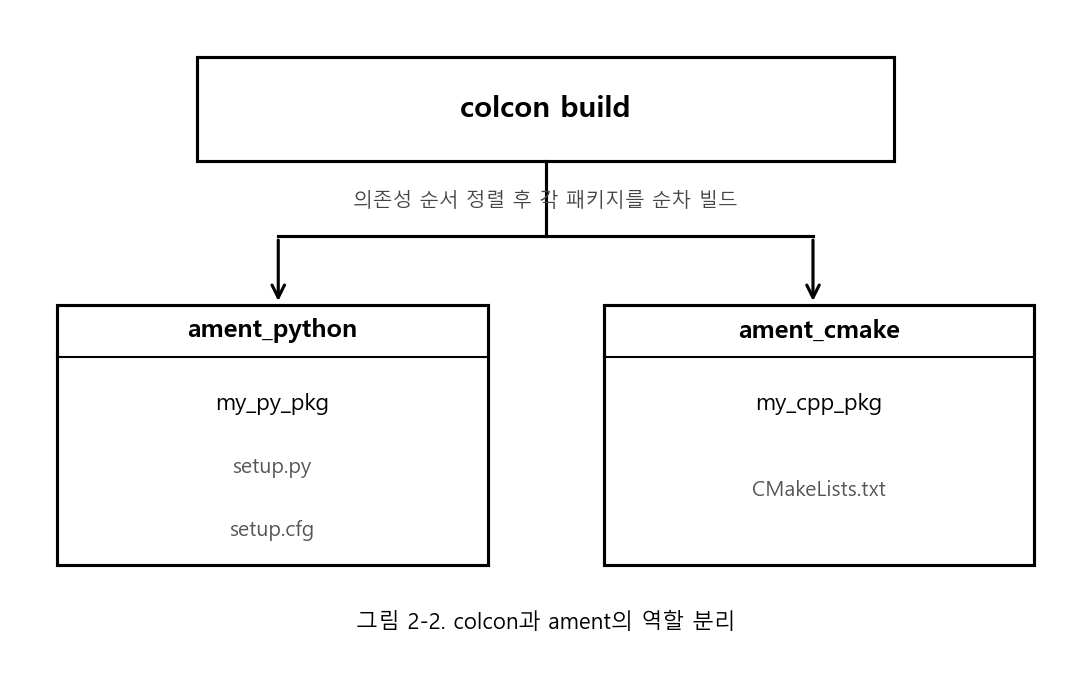
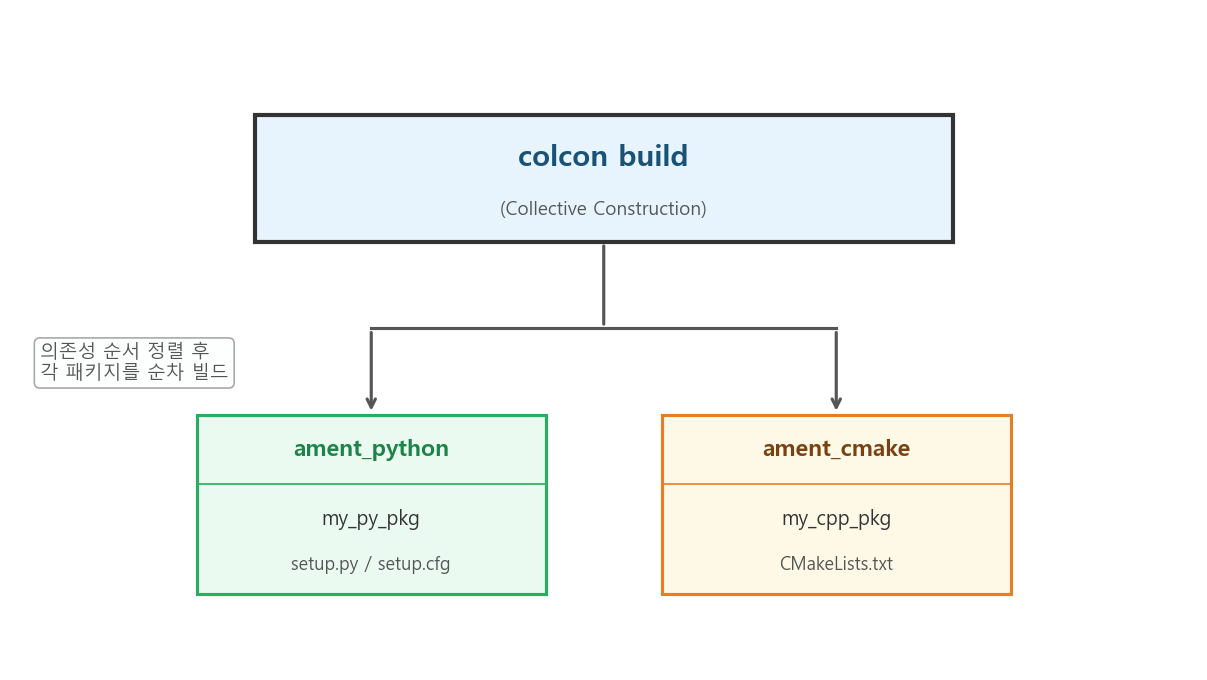
2장 수정: 폴더 트리 PNG화(fig2-4), fig2-2 레이블 좌측 이동, DOCX 갱신

diff --git a/scripts/gen_fig2_fix.py b/scripts/gen_fig2_fix.py
@@ -1,0 +1,144 @@
+"""Generate fig2-2 (fixed) and fig2-4 (new workspace tree diagram)."""
+import matplotlib
+matplotlib.use('Agg')
+import matplotlib.pyplot as plt
+import matplotlib.patches as patches
+
+plt.rcParams['font.family'] = 'Malgun Gothic'
+plt.rcParams['axes.unicode_minus'] = False
+
+FIGURES = 'docs/01_intro/figures'
+
+# ──────────────────────────────────────────
+# fig2-2  (fixed): colcon label moved LEFT
+# ──────────────────────────────────────────
+fig, ax = plt.subplots(figsize=(10, 5.5))
+ax.set_xlim(0, 10)
+ax.set_ylim(0, 5.5)
+ax.axis('off')
+
+# colcon build box
+colcon_x, colcon_y, colcon_w, colcon_h = 2.0, 3.6, 6.0, 1.1
+rect_top = patches.Rectangle((colcon_x, colcon_y), colcon_w, colcon_h,
+                               linewidth=2, edgecolor='#333333', facecolor='#E8F4FD')
+ax.add_patch(rect_top)
+ax.text(colcon_x + colcon_w / 2, colcon_y + 0.72, 'colcon build',
+        ha='center', va='center', fontsize=14, fontweight='bold', color='#1A5276')
+ax.text(colcon_x + colcon_w / 2, colcon_y + 0.28, '(Collective Construction)',
+        ha='center', va='center', fontsize=9, color='#555555')
+
+# annotation text LEFT of the branch lines
+ax.text(0.15, 2.55,
+        '의존성 순서 정렬 후\n각 패키지를 순차 빌드',
+        ha='left', va='center', fontsize=9, color='#555555',
+        style='italic',
+        bbox=dict(boxstyle='round,pad=0.3', facecolor='#FDFEFE', edgecolor='#AAAAAA', linewidth=0.8))
+
+# branch: vertical line down from colcon box center
+cx = colcon_x + colcon_w / 2  # 5.0
+ax.annotate('', xy=(cx, 2.85), xytext=(cx, colcon_y),
+            arrowprops=dict(arrowstyle='-', color='#555555', lw=1.5))
+
+# horizontal line to two branches
+ax.plot([3.0, 7.0], [2.85, 2.85], color='#555555', lw=1.5)
+
+# left branch arrow
+ax.annotate('', xy=(3.0, 2.1), xytext=(3.0, 2.85),
+            arrowprops=dict(arrowstyle='->', color='#555555', lw=1.5))
+
+# right branch arrow
+ax.annotate('', xy=(7.0, 2.1), xytext=(7.0, 2.85),
+            arrowprops=dict(arrowstyle='->', color='#555555', lw=1.5))
+
+# left box: ament_python
+py_x, py_y, py_w, py_h = 1.5, 0.55, 3.0, 1.55
+rect_py = patches.Rectangle((py_x, py_y), py_w, py_h,
+                              linewidth=1.5, edgecolor='#27AE60', facecolor='#EAFAF1')
+ax.add_patch(rect_py)
+ax.plot([py_x, py_x + py_w], [py_y + 0.95, py_y + 0.95], color='#27AE60', lw=0.8)
+ax.text(py_x + py_w / 2, py_y + 1.25, 'ament_python',
+        ha='center', va='center', fontsize=11, fontweight='bold', color='#1D8348')
+ax.text(py_x + py_w / 2, py_y + 0.65, 'my_py_pkg',
+        ha='center', va='center', fontsize=9.5, color='#333333')
+ax.text(py_x + py_w / 2, py_y + 0.25, 'setup.py / setup.cfg',
+        ha='center', va='center', fontsize=8.5, color='#555555')
+
+# right box: ament_cmake
+cpp_x, cpp_y, cpp_w, cpp_h = 5.5, 0.55, 3.0, 1.55
+rect_cpp = patches.Rectangle((cpp_x, cpp_y), cpp_w, cpp_h,
+                               linewidth=1.5, edgecolor='#E67E22', facecolor='#FEF9E7')
+ax.add_patch(rect_cpp)
+ax.plot([cpp_x, cpp_x + cpp_w], [cpp_y + 0.95, cpp_y + 0.95], color='#E67E22', lw=0.8)
+ax.text(cpp_x + cpp_w / 2, cpp_y + 1.25, 'ament_cmake',
+        ha='center', va='center', fontsize=11, fontweight='bold', color='#784212')
+ax.text(cpp_x + cpp_w / 2, cpp_y + 0.65, 'my_cpp_pkg',
+        ha='center', va='center', fontsize=9.5, color='#333333')
+ax.text(cpp_x + cpp_w / 2, cpp_y + 0.25, 'CMakeLists.txt',
+        ha='center', va='center', fontsize=8.5, color='#555555')
+
+plt.savefig(f'{FIGURES}/fig2-2.png', dpi=150, bbox_inches='tight',
+            facecolor='white', pad_inches=0.15)
+plt.close()
+print('fig2-2.png done')
+
+
+# ──────────────────────────────────────────
+# fig2-4: workspace folder tree
+# ──────────────────────────────────────────
+fig, ax = plt.subplots(figsize=(10, 5.5))
+ax.set_xlim(0, 10)
+ax.set_ylim(0, 5.5)
+ax.axis('off')
+
+# Root box
+root_x, root_y, root_w, root_h = 3.5, 4.2, 3.0, 0.85
+rect_root = patches.Rectangle((root_x, root_y), root_w, root_h,
+                                linewidth=2, edgecolor='#2C3E50', facecolor='#D6EAF8')
+ax.add_patch(rect_root)
+ax.text(root_x + root_w / 2, root_y + root_h / 2, 'ros2_ws/',
+        ha='center', va='center', fontsize=13, fontweight='bold', color='#1A252F')
+
+# vertical trunk
+trunk_cx = root_x + root_w / 2  # 5.0
+ax.plot([trunk_cx, trunk_cx], [root_y, 3.6], color='#555555', lw=1.5)
+
+# horizontal bar
+ax.plot([1.2, 8.8], [3.6, 3.6], color='#555555', lw=1.5)
+
+# four child positions
+children = [
+    (1.2, 'src/',     '#EAFAF1', '#27AE60', '#1D8348',
+     '내가 관리하는 소스 코드\ngit 관리 대상'),
+    (3.5, 'build/',   '#FEF9E7', '#E67E22', '#784212',
+     '중간 빌드 산출물\n(자동 생성)'),
+    (5.8, 'install/', '#FEF5E4', '#D35400', '#6E2F00',
+     '실행에 필요한 최종 결과물\nsetup.bash 포함 (자동 생성)'),
+    (8.1, 'log/',     '#F4ECF7', '#8E44AD', '#4A235A',
+     '빌드 로그\n(자동 생성)'),
+]
+
+box_w, box_h = 1.55, 0.75
+desc_h = 1.0
+for cx, label, fc, ec, tc, desc in children:
+    bx = cx - box_w / 2
+    by = 2.65
+
+    # vertical drop
+    ax.plot([cx, cx], [3.6, by + box_h], color='#555555', lw=1.5)
+
+    # folder box
+    rect = patches.Rectangle((bx, by), box_w, box_h,
+                               linewidth=1.5, edgecolor=ec, facecolor=fc)
+    ax.add_patch(rect)
+    ax.text(cx, by + box_h / 2, label,
+            ha='center', va='center', fontsize=10, fontweight='bold', color=tc)
+
+    # description text below
+    ax.text(cx, by - 0.15, desc,
+            ha='center', va='top', fontsize=7.5, color='#444444',
+            linespacing=1.5)
+
+plt.savefig(f'{FIGURES}/fig2-4.png', dpi=150, bbox_inches='tight',
+            facecolor='white', pad_inches=0.15)
+plt.close()
+print('fig2-4.png done')

diff --git a/docs/01_intro/02_workspace_and_colcon.md b/docs/01_intro/02_workspace_and_colcon.md
@@ -38,16 +38,7 @@ mkdir -p ~/ros2_ws/src
 src 에 패키지를 넣고 워크스페이스 최상위에서 빌드하면, ROS 2는 자동으로 src 아래를
 훑어 패키지들을 찾아 빌드한다. 빌드 결과는 워크스페이스 안의 네 폴더에 나뉘어 생긴다.
 
-```text
-ros2_ws/
-├── src/          ← 내가 관리하는 소스 코드 (git 관리 대상)
-│   ├── my_py_pkg/
-│   └── my_cpp_pkg/
-├── build/        ← 자동 생성 (중간 빌드 산출물)
-├── install/      ← 자동 생성 (실행에 필요한 최종 결과물)
-│   └── setup.bash  ← 오버레이 소싱 대상
-└── log/          ← 자동 생성 (빌드 로그)
-```
+![그림 2-4. 워크스페이스 폴더 구조](figures/fig2-4.png)
 
 | 폴더 | 생성 시점 | 내용 |
 |---|---|---|